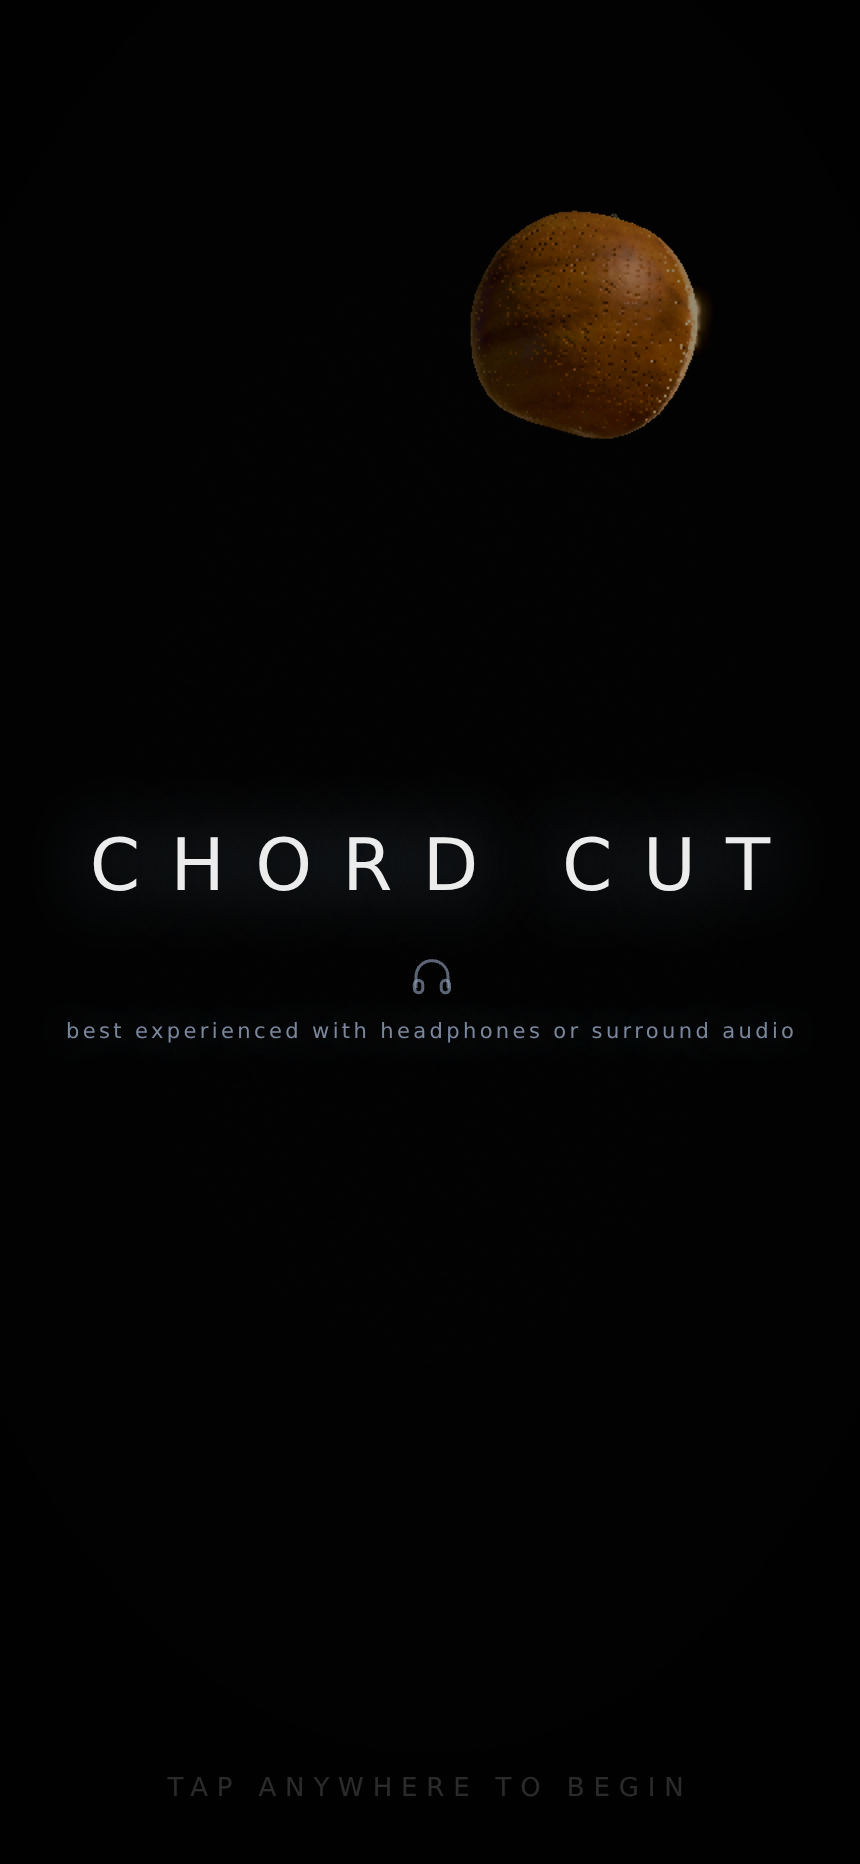
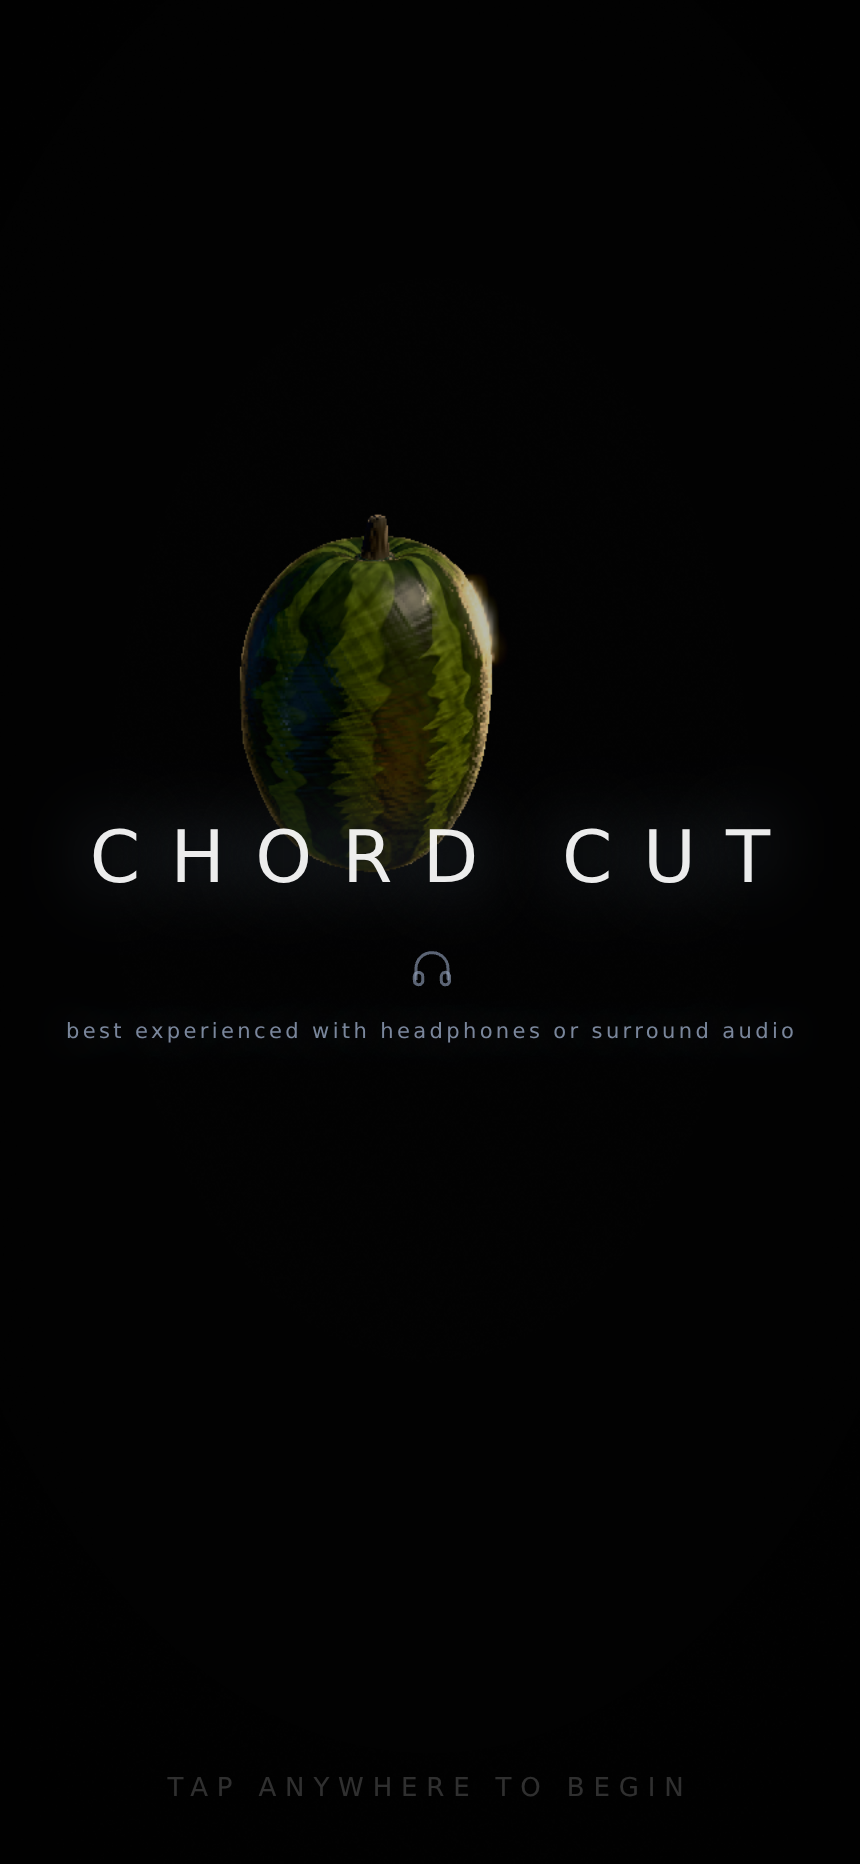
r36b: the marquee melon — and the title screen sealed
Player feedback on the title: the advisory line clipped, the score bled
through, and live toss traffic under the title "feels stressful, like
you are missing points" — and if fruit is going to be there, it should
be the watermelon.

So the world now waits at the door: hud publishes ctx.titleHold and the
director holds the level clock and ALL ordinary spawning while the
title is up. In its place, THE MARQUEE — one watermelon at a time lobs
a slow arc past the wordmark, alternating sides, nothing else in the
sky. Play (and the day's clock, and "Still Water") begins on the
dismissing tap. Probes never set the flag (?capture suppresses the
title), so frozen rng streams are untouched.

Sealing the leaks: the advisory line may wrap (max-width 86vw,
line-height 1.9) so it can never clip on any device or font; the level
name is deferred to dismissal in hud.js AND silenced in CSS with
animation:none (the r34 lesson — its .show animation would outrank a
plain opacity). Codex round: the dismissal now runs BEFORE the
settings-target early-return so "tap anywhere" includes the corner the
idle gear occupies, and the idle clock doesn't run under the title so
the gear cannot appear there at all.

Audioprobe green 3x, drawprobe green; screenshot re-rendered
(shots/title-portrait.png).

Claude-Session: https://claude.ai/code/session_015nASdr9y6NnLpyGJ9ZZJpd

diff --git a/src/ui/hud.js b/src/ui/hud.js
@@ -208,21 +208,27 @@ export function createHud() {
     } catch (_) { /* */ }
     try { reducedMotion = matchMedia('(prefers-reduced-motion: reduce)').matches; } catch (_) { /* */ }
     window.addEventListener('pointerdown', (ev) => {
+      // ══ r36: the title screen lets go on the first touch — checked BEFORE
+      // the settings early-return so "tap anywhere" means anywhere (codex:
+      // a tap landing on the idle gear used to open settings under the veil).
+      // The same tap is audio.js's unlock gesture, so the music begins as the
+      // name fades. The swipe hint was held silent underneath; it takes over.
+      // The level name announces itself only now — play is what starts the day.
+      if (titleEl) {
+        const t = titleEl; titleEl = null;
+        t.classList.add('out');
+        root.classList.remove('zs-title-up');
+        ctx.titleHold = false;
+        setTimeout(() => t.remove(), 1000);
+        if (hintEl) hintEl.classList.remove('hold');
+        ctx.bus.emit('level', { level: 0, name: 'Still Water' });
+        return;
+      }
       if (settingsEl && ev.target && settingsEl.contains(ev.target)) return;
       idleT = 0;
       if (panelOpen) togglePanel(false);
       else if (gearEl) gearEl.classList.remove('show');
       if (++swipeCount >= 3 && hintEl) hintEl.classList.add('gone');
-      // ══ r36: the title screen lets go on the first touch ═══════════════════
-      // The same tap is audio.js's unlock gesture, so the music begins as the
-      // name fades. The swipe hint was held silent underneath; it takes over.
-      if (titleEl) {
-        const t = titleEl; titleEl = null;
-        t.classList.add('out');
-        root.classList.remove('zs-title-up');
-        setTimeout(() => t.remove(), 1000);
-        if (hintEl) hintEl.classList.remove('hold');
-      }
     }, { passive: true });
 
     // ══ r36: THE TITLE SCREEN ════════════════════════════════════════════════
@@ -249,6 +255,7 @@ export function createHud() {
         + `<div class="zs-title-go">tap anywhere to begin</div>`;
       root.appendChild(titleEl);
       root.classList.add('zs-title-up');
+      c.titleHold = true;
       if (hintEl) hintEl.classList.add('hold');
     }
 
@@ -335,8 +342,9 @@ export function createHud() {
       debugEl.querySelector('#zs-dbg-next').addEventListener('pointerdown', () => jump(1));
     }
 
-    // first level name
-    setTimeout(() => c.bus.emit('level', { level: 0, name: 'Still Water' }), 700);
+    // first level name — deferred to title dismissal when the title is up
+    // (codex: the 700 ms timer used to fade "STILL WATER" through the veil)
+    setTimeout(() => { if (!titleEl) c.bus.emit('level', { level: 0, name: 'Still Water' }); }, 700);
   };
 
   function togglePanel(open) {
@@ -392,7 +400,7 @@ export function createHud() {
     // r21: the settings glyph earns its existence by absence — visible only
     // after the fingertip has been still for IDLE_SHOW_S
     if (gearEl) {
-      idleT += dt;
+      if (!titleEl) idleT += dt;
       const show = idleT >= IDLE_SHOW_S;
       if (show !== gearEl.classList.contains('show')) gearEl.classList.toggle('show', show);
       if (!show && panelOpen) togglePanel(false);

diff --git a/src/play/director.js b/src/play/director.js
@@ -83,6 +83,7 @@ export function createDirector({ seed = 20260806 } = {}) {
   const physics = createPhysics();
   let nextSpawn = 1.2;
   let lastFan = -1e9;   // r32: last constellation offer (sim seconds)
+  let titleWait = 0.5, titleSide = 1;   // r36: the marquee melon's cadence
   let t = 0;
   let levelT = 0;   // sim seconds in the current level (the r18 time gate)
   // running triangle total of the live population, maintained incrementally by
@@ -317,15 +318,39 @@ export function createDirector({ seed = 20260806 } = {}) {
 
   api.fixed = (sdt) => {
     t += sdt;
-    levelT += sdt;
+    // ══ r36 THE MARQUEE HOLD ════════════════════════════════════════════════
+    // While the title screen is up (hud.js publishes ctx.titleHold) the arc
+    // has not begun: the level clock waits and nothing ordinary spawns — the
+    // player read random toss traffic under the title as "stressful, like you
+    // are missing points". Instead ONE watermelon at a time lobs a slow arc
+    // past the wordmark (the icon, by request), alternating sides. Physics
+    // and retirement below run as normal so the melon flies and leaves.
+    // Probes never set the flag (?capture suppresses the title), so frozen
+    // rng streams are untouched.
+    const held = !!ctx.titleHold;
+    if (!held) levelT += sdt;
     const L = LEVELS[api.level];
     updateVisibleBox();
+
+    if (held) {
+      let whole = 0;
+      for (let i = 0; i < api.live.length; i++) if (api.live[i].generation === 0) whole++;
+      if (whole === 0 && (titleWait -= sdt) <= 0) {
+        titleSide = -titleSide;
+        spawn('watermelon', {
+          x: titleSide * rr(rng, 0.7, 1.3),
+          apexY: rr(rng, 2.5, 3.2),
+          z: rr(rng, -0.5, 0.5),
+        });
+        titleWait = rr(rng, 1.6, 2.6);
+      }
+    }
 
     // pacing. The generation-0 census used to be `api.live.filter(...)`, which
     // allocated a throwaway array every fixed step — 120 of them a second
     // against R4's "zero steady-state allocation in the hot loop".
     nextSpawn -= sdt;
-    if (nextSpawn <= 0) {
+    if (!held && nextSpawn <= 0) {
       // ══ r28 THE BEAT-QUANTIZED TOSS (the Lumines/Rez move) ══════════════
       // When the timer expires, the toss HOLDS until the conductor's next
       // audible 8th (audio.js publishes ctx.toss8In each render frame; the
@@ -516,6 +541,7 @@ export function createDirector({ seed = 20260806 } = {}) {
   };
 
   api.reset = () => {
+    titleWait = 0.5; titleSide = 1;
     for (let i = api.live.length - 1; i >= 0; i--) api.remove(api.live[i]);
     api.level = 0; api.sliced = 0; levelT = 0; nextSpawn = 0.8; liveTris = 0; lastFan = -1e9;
     // ⚠ ROUND 10, FOR THE JUICE PIECE — READ THIS. The r9 juice verdict's open

diff --git a/src/ui/style.css b/src/ui/style.css
@@ -345,6 +345,11 @@ html, body {
   animation: zsTitleFade 1.8s ease 1.1s both;
 }
 .zs-title-sub svg { width: 24px; height: 24px; opacity: 0.75; }
+/* the line may WRAP on narrow screens or wide system fonts — never clip */
+.zs-title-sub span {
+  white-space: normal; text-align: center;
+  max-width: 86vw; line-height: 1.9;
+}
 .zs-title-go {
   position: absolute; bottom: max(30px, env(safe-area-inset-bottom)); left: 50%;
   transform: translateX(-50%);
@@ -353,8 +358,11 @@ html, body {
   white-space: nowrap;
   animation: zsTitleFade 1.2s ease 2.2s both, zsPulse 3.2s ease-in-out 3.4s infinite;
 }
-/* the score readout has nothing to say before play begins */
+/* no HUD chrome speaks before play begins: the score is blank anyway, and
+ * the level name (whose .show ANIMATION would outrank a plain opacity — the
+ * r34 lesson) is deferred in hud.js AND silenced here, belt and suspenders */
 .zs-hud.zs-title-up .zs-score { opacity: 0; }
+.zs-hud.zs-title-up .zs-level { animation: none; opacity: 0; }
 .zs-hud .zs-score { transition: opacity 0.9s ease; }
 @keyframes zsTitleFade { 0% { opacity: 0; } 100% { opacity: 1; } }
 
